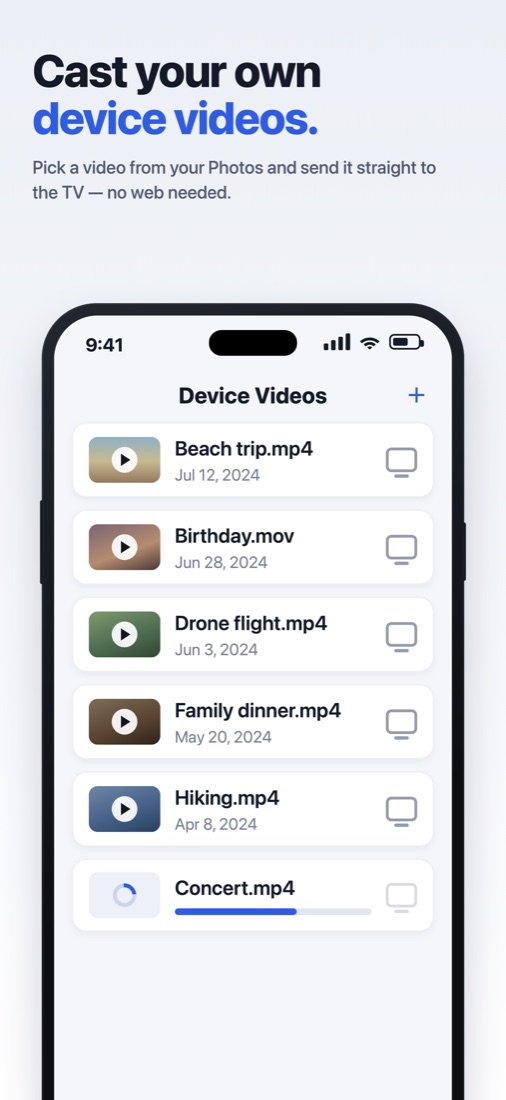
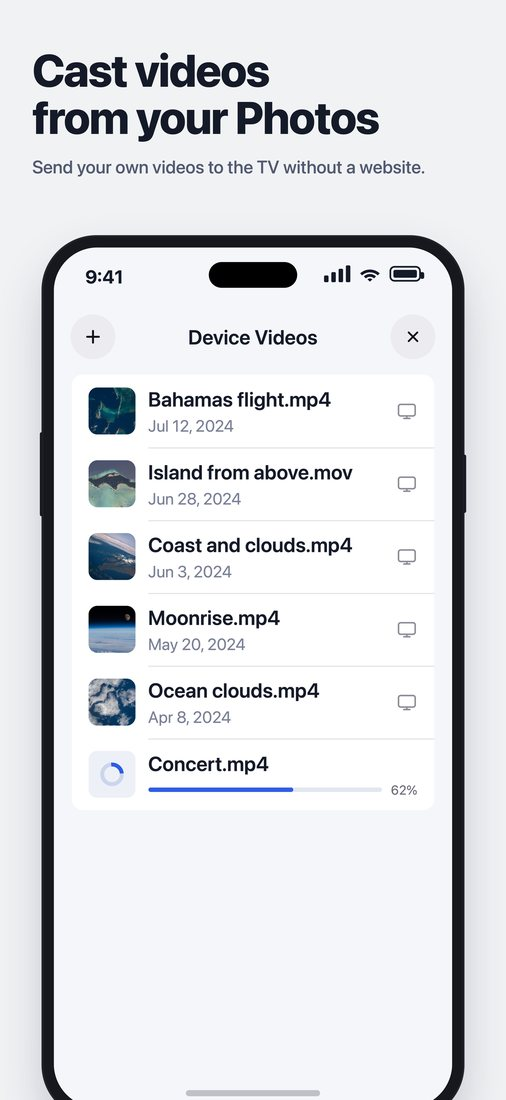
feat: Cast to TV 가이드의 이미지와 문구를 현재 앱 화면에 맞춤
- 한국어·영어 가이드의 휴대폰 화면, 대표 이미지, og 이미지를 새 디자인으로 교체
- 2단계를 "영상 재생 → 보낼 영상 선택"으로 변경(TV로 전송 버튼은 앱에 없음)
- 기능 목록에 자막 싱크 조절 추가
- sitemap의 가이드 수정일 갱신

diff --git a/cast-to-tv/guide/index.html b/cast-to-tv/guide/index.html
@@ -98,8 +98,8 @@
         <figcaption><b>1</b> 앱에서 영상 사이트 열기</figcaption>
       </figure>
       <figure>
-        <img src="02_cast.jpg" width="506" height="1100" loading="lazy" alt="영상 감지 후 TV로 전송 버튼">
-        <figcaption><b>2</b> 영상 재생 → TV로 전송</figcaption>
+        <img src="02_cast.jpg" width="506" height="1100" loading="lazy" alt="재생하면 표시되는 보낼 영상 목록">
+        <figcaption><b>2</b> 영상 재생 → 보낼 영상 선택</figcaption>
       </figure>
       <figure>
         <img src="03_pick.jpg" width="506" height="1100" loading="lazy" alt="크롬캐스트 기기 선택 화면">
@@ -111,7 +111,7 @@
     <h2>이런 것까지 됩니다</h2>
     <ul class="checks">
       <li>m3u8 라이브 방송, MP4·WebM·MOV 영상</li>
-      <li>자막(WebVTT) 표시</li>
+      <li>자막(WebVTT) 표시와 싱크 조절</li>
       <li>폰에 저장된 영상도 TV로</li>
       <li>잠금화면에서 재생·일시정지·탐색</li>
       <li>다른 앱 써도 TV는 계속 재생</li>

diff --git a/cast-to-tv/guide/en/index.html b/cast-to-tv/guide/en/index.html
@@ -98,8 +98,8 @@
         <figcaption><b>1</b> Open the video site in the app</figcaption>
       </figure>
       <figure>
-        <img src="02_cast.jpg" width="506" height="1100" loading="lazy" alt="Video detected with a Cast to TV button">
-        <figcaption><b>2</b> Play the video → Cast to TV</figcaption>
+        <img src="02_cast.jpg" width="506" height="1100" loading="lazy" alt="The list of videos to send, shown when you press play">
+        <figcaption><b>2</b> Play the video → choose what to send</figcaption>
       </figure>
       <figure>
         <img src="03_pick.jpg" width="506" height="1100" loading="lazy" alt="Choosing a Chromecast device">
@@ -111,7 +111,7 @@
     <h2>What it can do</h2>
     <ul class="checks">
       <li>M3U8 live streams, MP4, WebM and MOV videos</li>
-      <li>Subtitles (WebVTT)</li>
+      <li>Subtitles (WebVTT) with sync adjustment</li>
       <li>Videos saved on your phone, on the TV</li>
       <li>Play, pause and seek from the lock screen</li>
       <li>Keeps playing on the TV while you use other apps</li>
